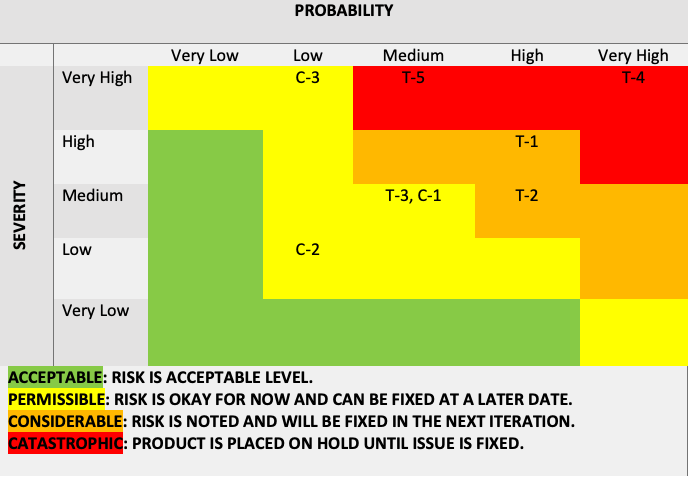
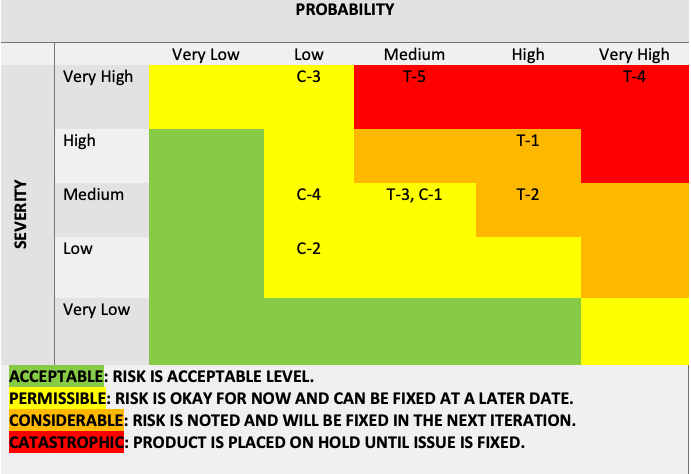
Updated the Risk and mitigation via website and word document.

diff --git a/website/index.html b/website/index.html
@@ -520,17 +520,14 @@
                         <li>T-1: Artificial Intelligence prone to error due to insufficient training data.</li>
                         <li>T-1 Mitigation: Implementing a feedback loopback in the beta phase with test users.</li>
                         <br>
-                        <li>T-2: Reduced functionality of application due to time constants and budget. </li>
-                        <li>T-2 Mitigation: Implement key features in the application for first iteration.</li>
+                        <li>T-2: Challenge to obtain accurate and timely feedback.</li>
+                        <li>T-2 Mitigation: Implement a feature for users to give feedback if the application operated correctly after completing a move.</li>
                         <br>
-                        <li>T-3: Inability to quicky implement user feedback due to technical complexity.</li>
-                        <li>T-3 Mitigation: Implement a feature for users to give feedback if the application operated correctly after completing a move.</li>
+                        <li>T-3: Current technology involving machine vision is a challenge.</li>
+                        <li>T-3 Mitigation: Conduct a beta phase to mitigate risk of critical errors upon release.</li>
                         <br>
-                        <li>T-4: Current technology being implemented is new and unproven in the field.</li>
-                        <li>T-4 Mitigation: Conduct a beta phase to mitigate risk of critical errors upon release.</li>
-                        <br>
-                        <li>T-5: Key developer leaves the project and takes critical information with him/her.</li>
-                        <li>T-5 Mitigation: Ensure team members collaborate and share knowledge equally throughout the projects lift cycle. </li>
+                        <li>T-4: Key developer leaves the project and creates a knowledge gap.</li>
+                        <li>T-4 Mitigation: Ensure team members collaborate and share knowledge equally throughout the projects lift cycle. </li>
                     </ul>
                 </div>
                 <br>
@@ -543,8 +540,12 @@
                         <li>C-2: End user finds UI challenging to operate.</li>
                         <li>C-2: Mitigation: Implement analytics for tracking when a user stop using the application.</li>
                         <br>
-                        <li>C-3: End user is disgruntled with the product.</li>
+                        <li>C-3: End users are not satisfied with the recommendations of the application.</li>
                         <li>C-3 Mitigation: Implement a customer feedback feature that allows the users to disclose his/her issues with the applications.</li>
+                        <br>
+                        <li>C-4: End user doesn’t follow the guidelines of the application</li>
+                        <li>C-4 Mitigation: Implement a feature that allows the user to repeat/reset certain steps in the application as they progress.</li>
+
                     </ul>
                 </div>
             </div>
